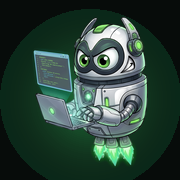
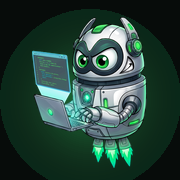
Robot portatil con recorte de Manu

Changed region(s): [[0.1667, 0.0833, 0.8333, 0.9444], [0.5278, 0.2222, 0.5556, 0.25]]

diff --git a/index.html b/index.html
@@ -96,7 +96,7 @@
     <div class="orbit o1"></div><div class="orbit o2"></div><div class="orbit o3"></div>
     <div class="halo"></div>
     <div class="avatar-wrap tilt">
-      <img src="avatar.webp?v=4" alt="Mascota de FuturMovil programando" class="avatar">
+      <img src="avatar.webp?v=5" alt="Mascota de FuturMovil programando" class="avatar">
       <div class="jet"></div>
     </div>
     <div class="chip c1"><i>📶</i> Fibra</div>

diff --git a/sw.js b/sw.js
@@ -1,4 +1,4 @@
-const CACHE = 'futurmovil-v4';
+const CACHE = 'futurmovil-v5';
 const ASSETS = ['./', 'index.html', 'styles.css', 'app.js', 'manifest.json',
   'futurmovil.webp', 'puntofibra.webp', 'avatar.webp', 'avatar-win.webp',
   'icon-192.png', 'icon-512.png', 'apple-touch-icon.png', 'favicon.png'];
